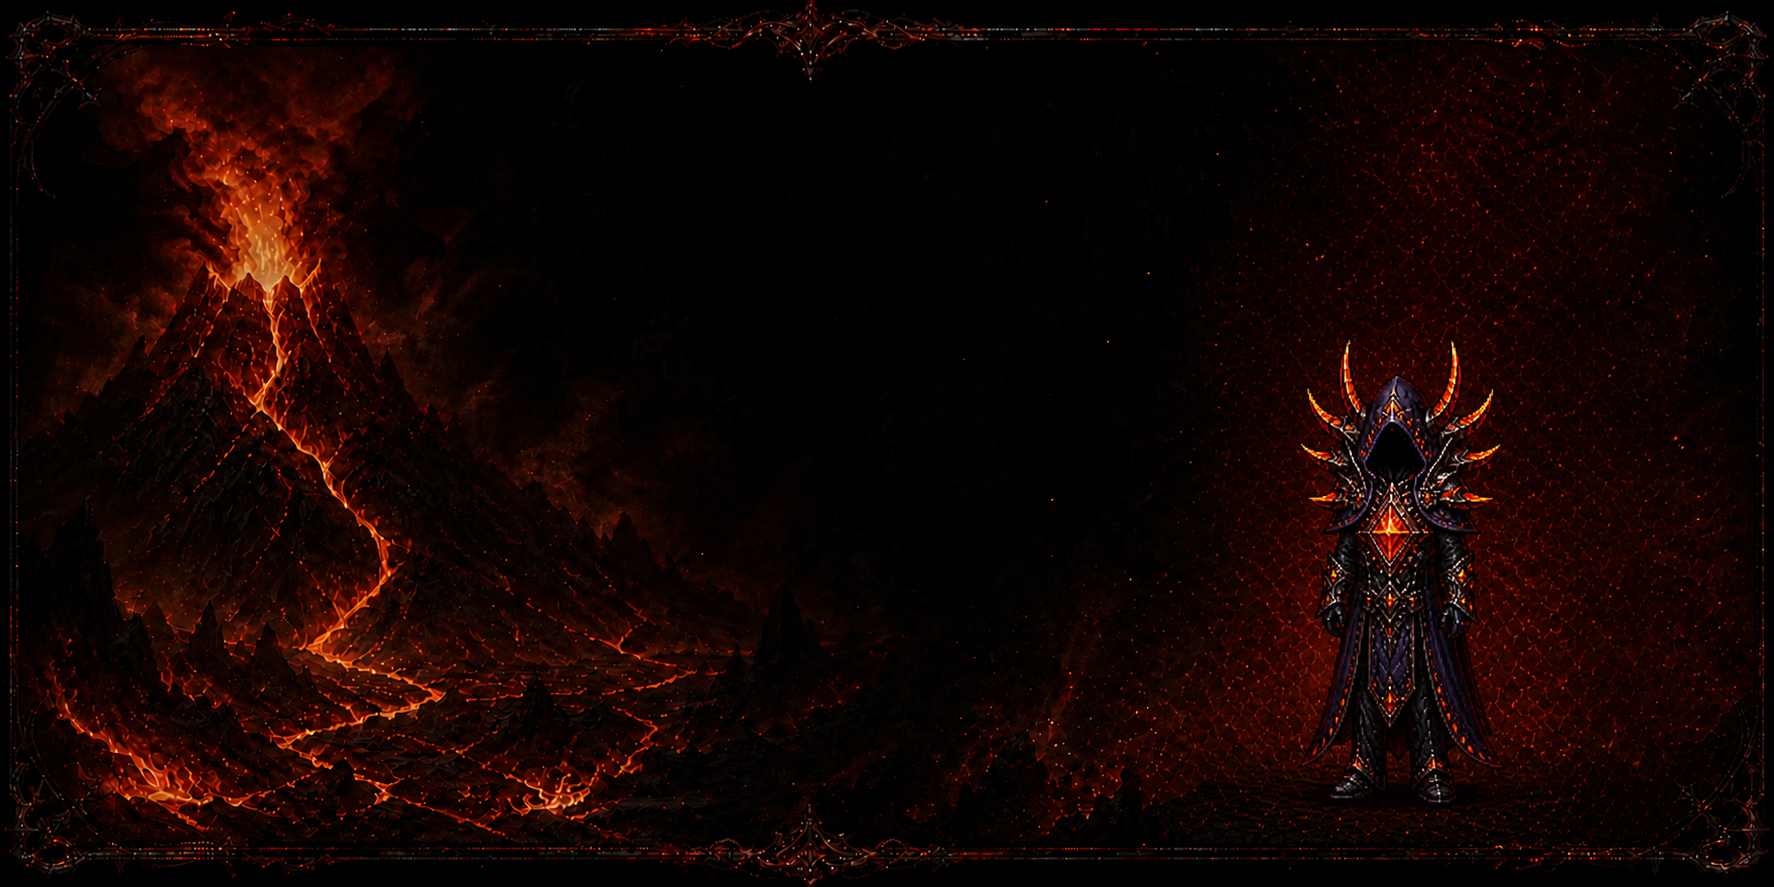
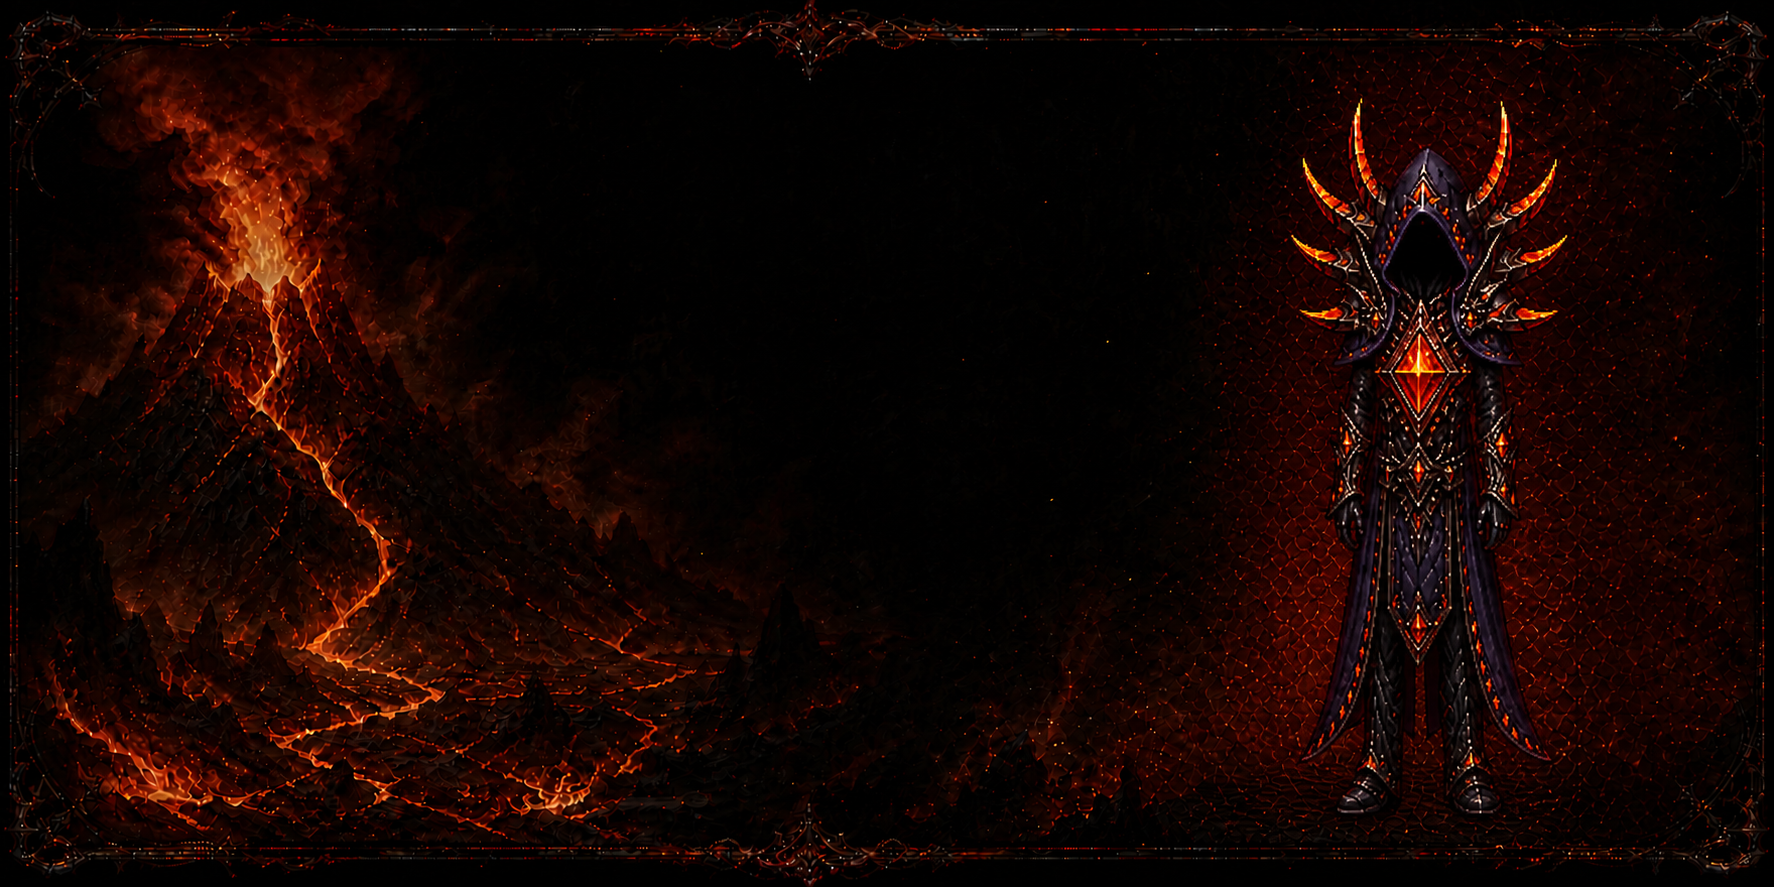
Keep Archmage height and slim silhouette

diff --git a/Margonem-Crimson-Character-Backgrounds.user.js b/Margonem-Crimson-Character-Backgrounds.user.js
@@ -1,7 +1,7 @@
 // ==UserScript==
 // @name         Margonem Crimson - Tła postaci
 // @namespace    https://github.com/bSlawek-03/Margonem-Crimson
-// @version      5.1.0
+// @version      5.2.0
 // @description  Panel do przypisywania RAW tła do postaci Margonem.
 // @author       Slawek
 // @match        https://*.margonem.pl/*
@@ -15,7 +15,7 @@
 (() => {
   'use strict';
 
-  const STORAGE_KEY = 'margonem-crimson-character-backgrounds-v13';
+  const STORAGE_KEY = 'margonem-crimson-character-backgrounds-v14';
 
   const characters = [
     { key: 'fourhead', label: 'Fourhead', level: '114', slot: 1 },
@@ -29,12 +29,12 @@
   const knownCharacters = characters.map((item) => item.key);
 
   const defaultUrls = {
-    fourhead: 'https://raw.githubusercontent.com/bSlawek-03/Margonem-Crimson/main/assets/titan-renegat-baulus-background.png?v=11',
-    twohead: 'https://raw.githubusercontent.com/bSlawek-03/Margonem-Crimson/main/assets/crimson-archdemon-background.png?v=11',
-    onehawk: 'https://raw.githubusercontent.com/bSlawek-03/Margonem-Crimson/main/assets/titan-versus-zoons-background.png?v=11',
-    threebane: 'https://raw.githubusercontent.com/bSlawek-03/Margonem-Crimson/main/assets/titan-lowcz-driady-background.png?v=11',
-    fivefang: 'https://raw.githubusercontent.com/bSlawek-03/Margonem-Crimson/main/assets/titan-tezcatlipoca-background.png?v=11',
-    'po prostu slawek': 'https://raw.githubusercontent.com/bSlawek-03/Margonem-Crimson/main/assets/titan-ice-king-background.png?v=11'
+    fourhead: 'https://raw.githubusercontent.com/bSlawek-03/Margonem-Crimson/main/assets/titan-renegat-baulus-background.png?v=12',
+    twohead: 'https://raw.githubusercontent.com/bSlawek-03/Margonem-Crimson/main/assets/crimson-archdemon-background.png?v=12',
+    onehawk: 'https://raw.githubusercontent.com/bSlawek-03/Margonem-Crimson/main/assets/titan-versus-zoons-background.png?v=12',
+    threebane: 'https://raw.githubusercontent.com/bSlawek-03/Margonem-Crimson/main/assets/titan-lowcz-driady-background.png?v=12',
+    fivefang: 'https://raw.githubusercontent.com/bSlawek-03/Margonem-Crimson/main/assets/titan-tezcatlipoca-background.png?v=12',
+    'po prostu slawek': 'https://raw.githubusercontent.com/bSlawek-03/Margonem-Crimson/main/assets/titan-ice-king-background.png?v=12'
   };
 
   const defaults = Object.fromEntries(characters.map((item) => [item.key, {
